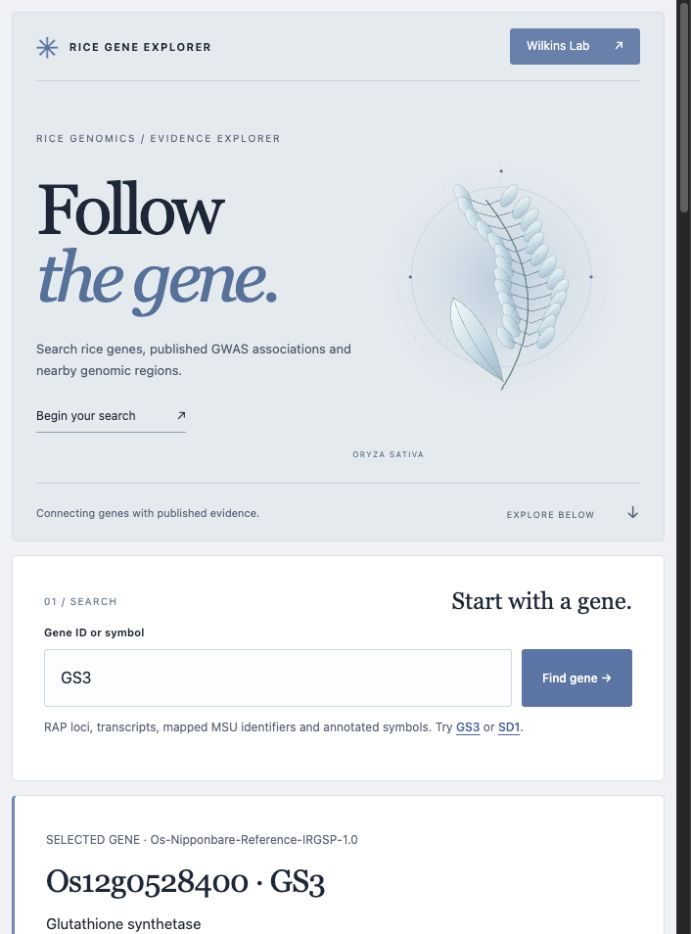
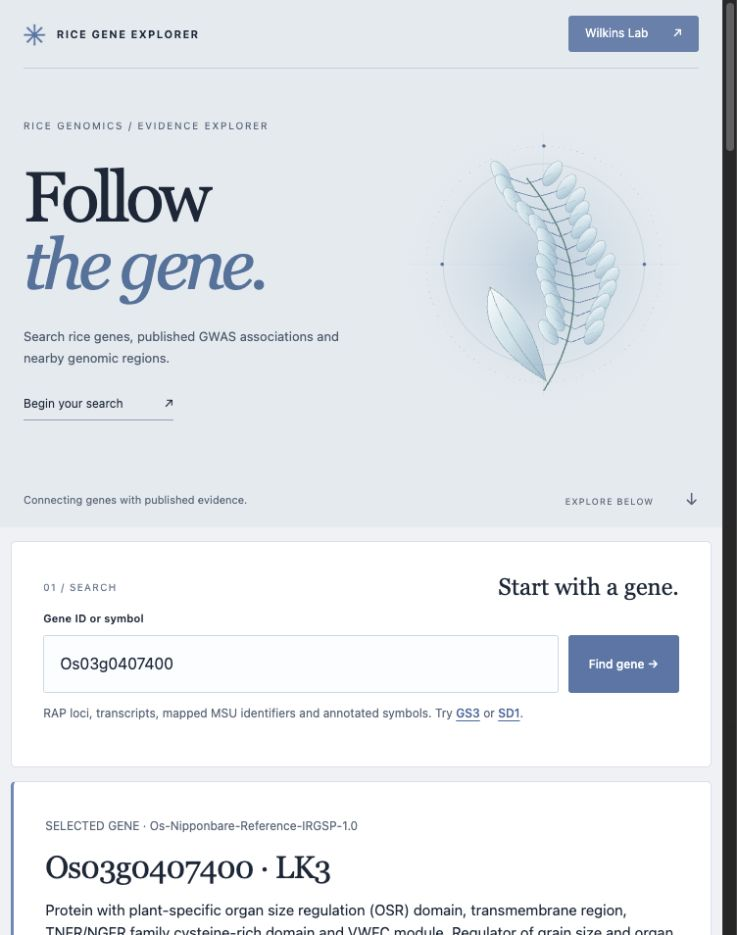
Expand page width and simplify hero details

diff --git a/static/style.css b/static/style.css
@@ -22,18 +22,20 @@ body {
     "Helvetica Neue",
     Arial,
     sans-serif;
-  padding: 22px;
+  padding: 0;
 }
 a {
   color: var(--green);
 }
 .masthead {
-  max-width: 1480px;
+  width: 100%;
+  display: flex;
+  flex-direction: column;
   margin: 0 auto;
   background: #e8edf1;
   padding: 0 34px;
-  border: 1px solid #dce2e9;
-  border-radius: 5px;
+  border: 0;
+  border-radius: 0;
   overflow: hidden;
 }
 .topbar {
@@ -83,6 +85,7 @@ a {
   padding-left: 22px;
 }
 .hero {
+  flex: 1;
   display: grid;
   grid-template-columns: 1fr 1fr;
   position: relative;
@@ -136,21 +139,9 @@ h1 em {
 }
 .botanical-visual {
   width: 100%;
-  max-width: 560px;
+  max-width: 760px;
   min-width: 0;
   height: auto;
-}
-.art-caption {
-  position: absolute;
-  bottom: 23px;
-  left: 15%;
-  right: 4%;
-  display: flex;
-  justify-content: space-between;
-  gap: 10px;
-  font-size: 9px;
-  letter-spacing: 0.15em;
-  color: #697f96;
 }
 .art-caption span {
   color: #8593a5;
@@ -159,7 +150,6 @@ h1 em {
   display: flex;
   align-items: center;
   justify-content: space-between;
-  border-top: 1px solid #cdd6e0;
   padding: 16px 0;
   font-size: 11px;
   color: #657184;
@@ -173,7 +163,8 @@ h1 em {
   font-size: 17px;
 }
 main {
-  max-width: 1480px;
+  width: 100%;
+  padding: 0 clamp(8px, 1.5vw, 24px);
   margin: 14px auto 0;
 }
 .search,
@@ -431,7 +422,7 @@ summary {
 }
 @media (max-width: 850px) {
   body {
-    padding: 12px;
+    padding: 0;
   }
   .masthead {
     padding: 0 24px;
@@ -451,10 +442,6 @@ summary {
   }
   .hero-copy {
     padding: 35px 0;
-  }
-  .art-caption {
-    left: 0;
-    font-size: 8px;
   }
   .art-caption span {
     display: none;
@@ -479,7 +466,7 @@ summary {
 }
 @media (max-width: 560px) {
   body {
-    padding: 8px;
+    padding: 0;
   }
   .masthead {
     padding: 0 20px;
@@ -527,11 +514,6 @@ summary {
   .botanical-visual {
     height: 280px;
     width: 100%;
-  }
-  .art-caption {
-    bottom: 2px;
-    left: 0;
-    right: 0;
   }
   .art-caption span {
     display: inline;

diff --git a/static/index.html b/static/index.html
@@ -479,10 +479,8 @@
               <circle cx="113" cy="240" r="3" />
               <circle cx="465" cy="240" r="3" />
               <circle cx="290" cy="34" r="3" />
-            </g></svg
-          ><span class="art-caption"
-            >ORYZA SATIVA <span>GENE · REGION · TRAIT</span></span
-          >
+            </g>
+          </svg>
         </div>
       </div>
       <div class="hero-bottom">
